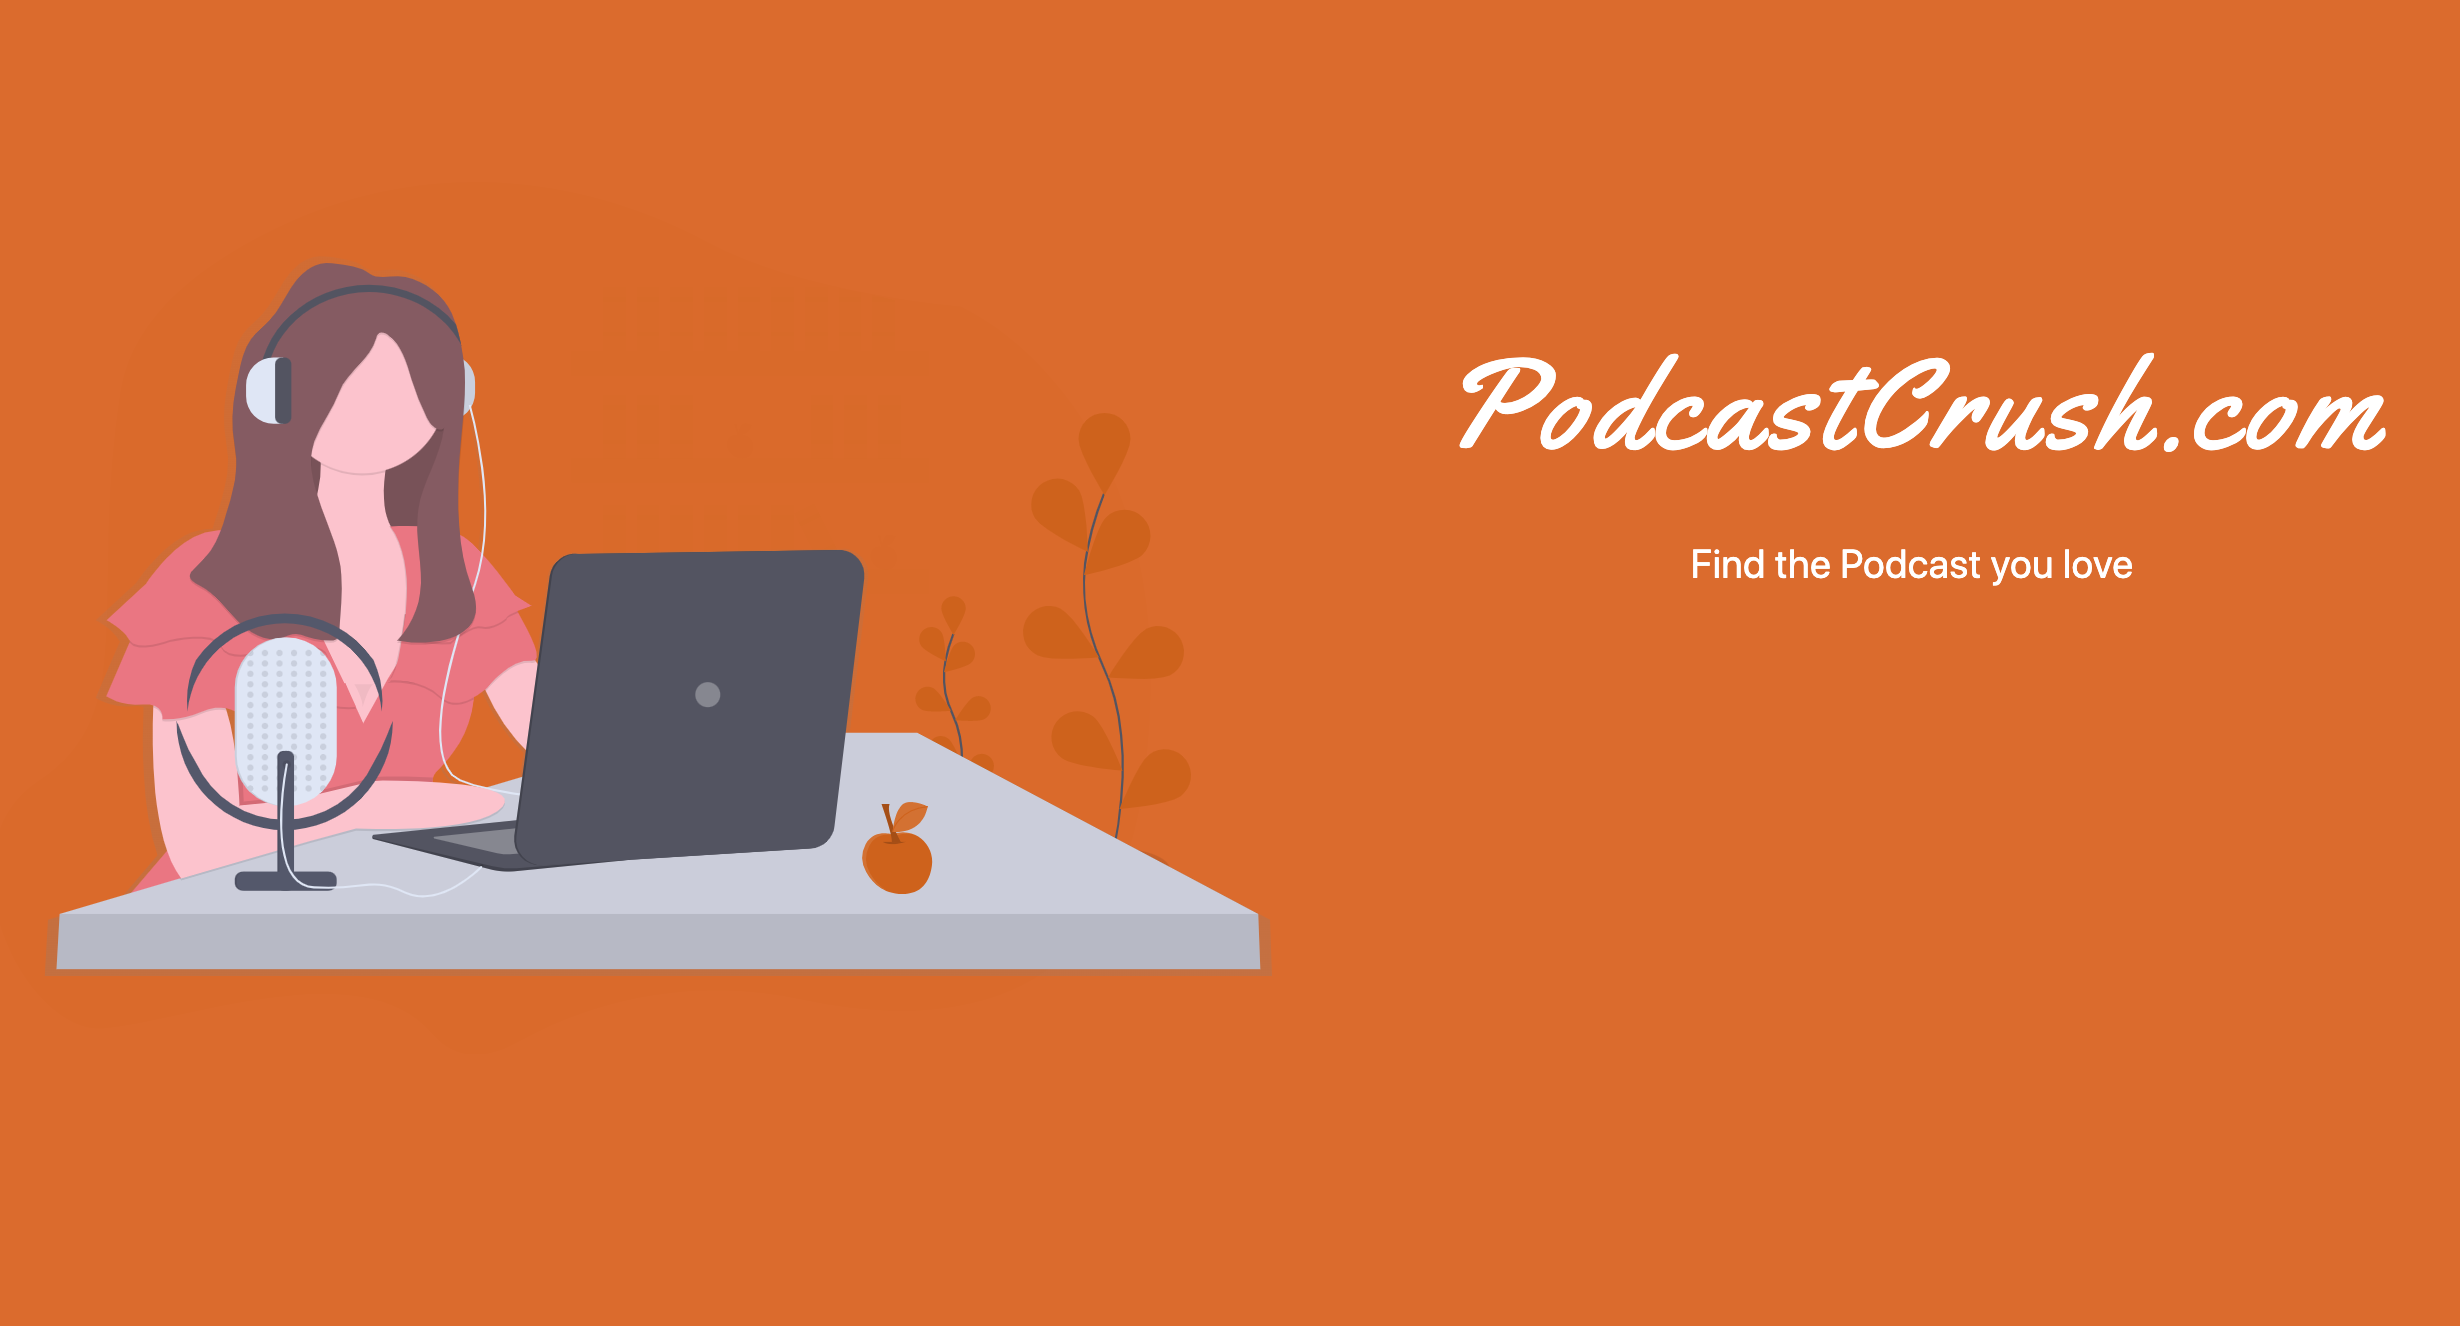
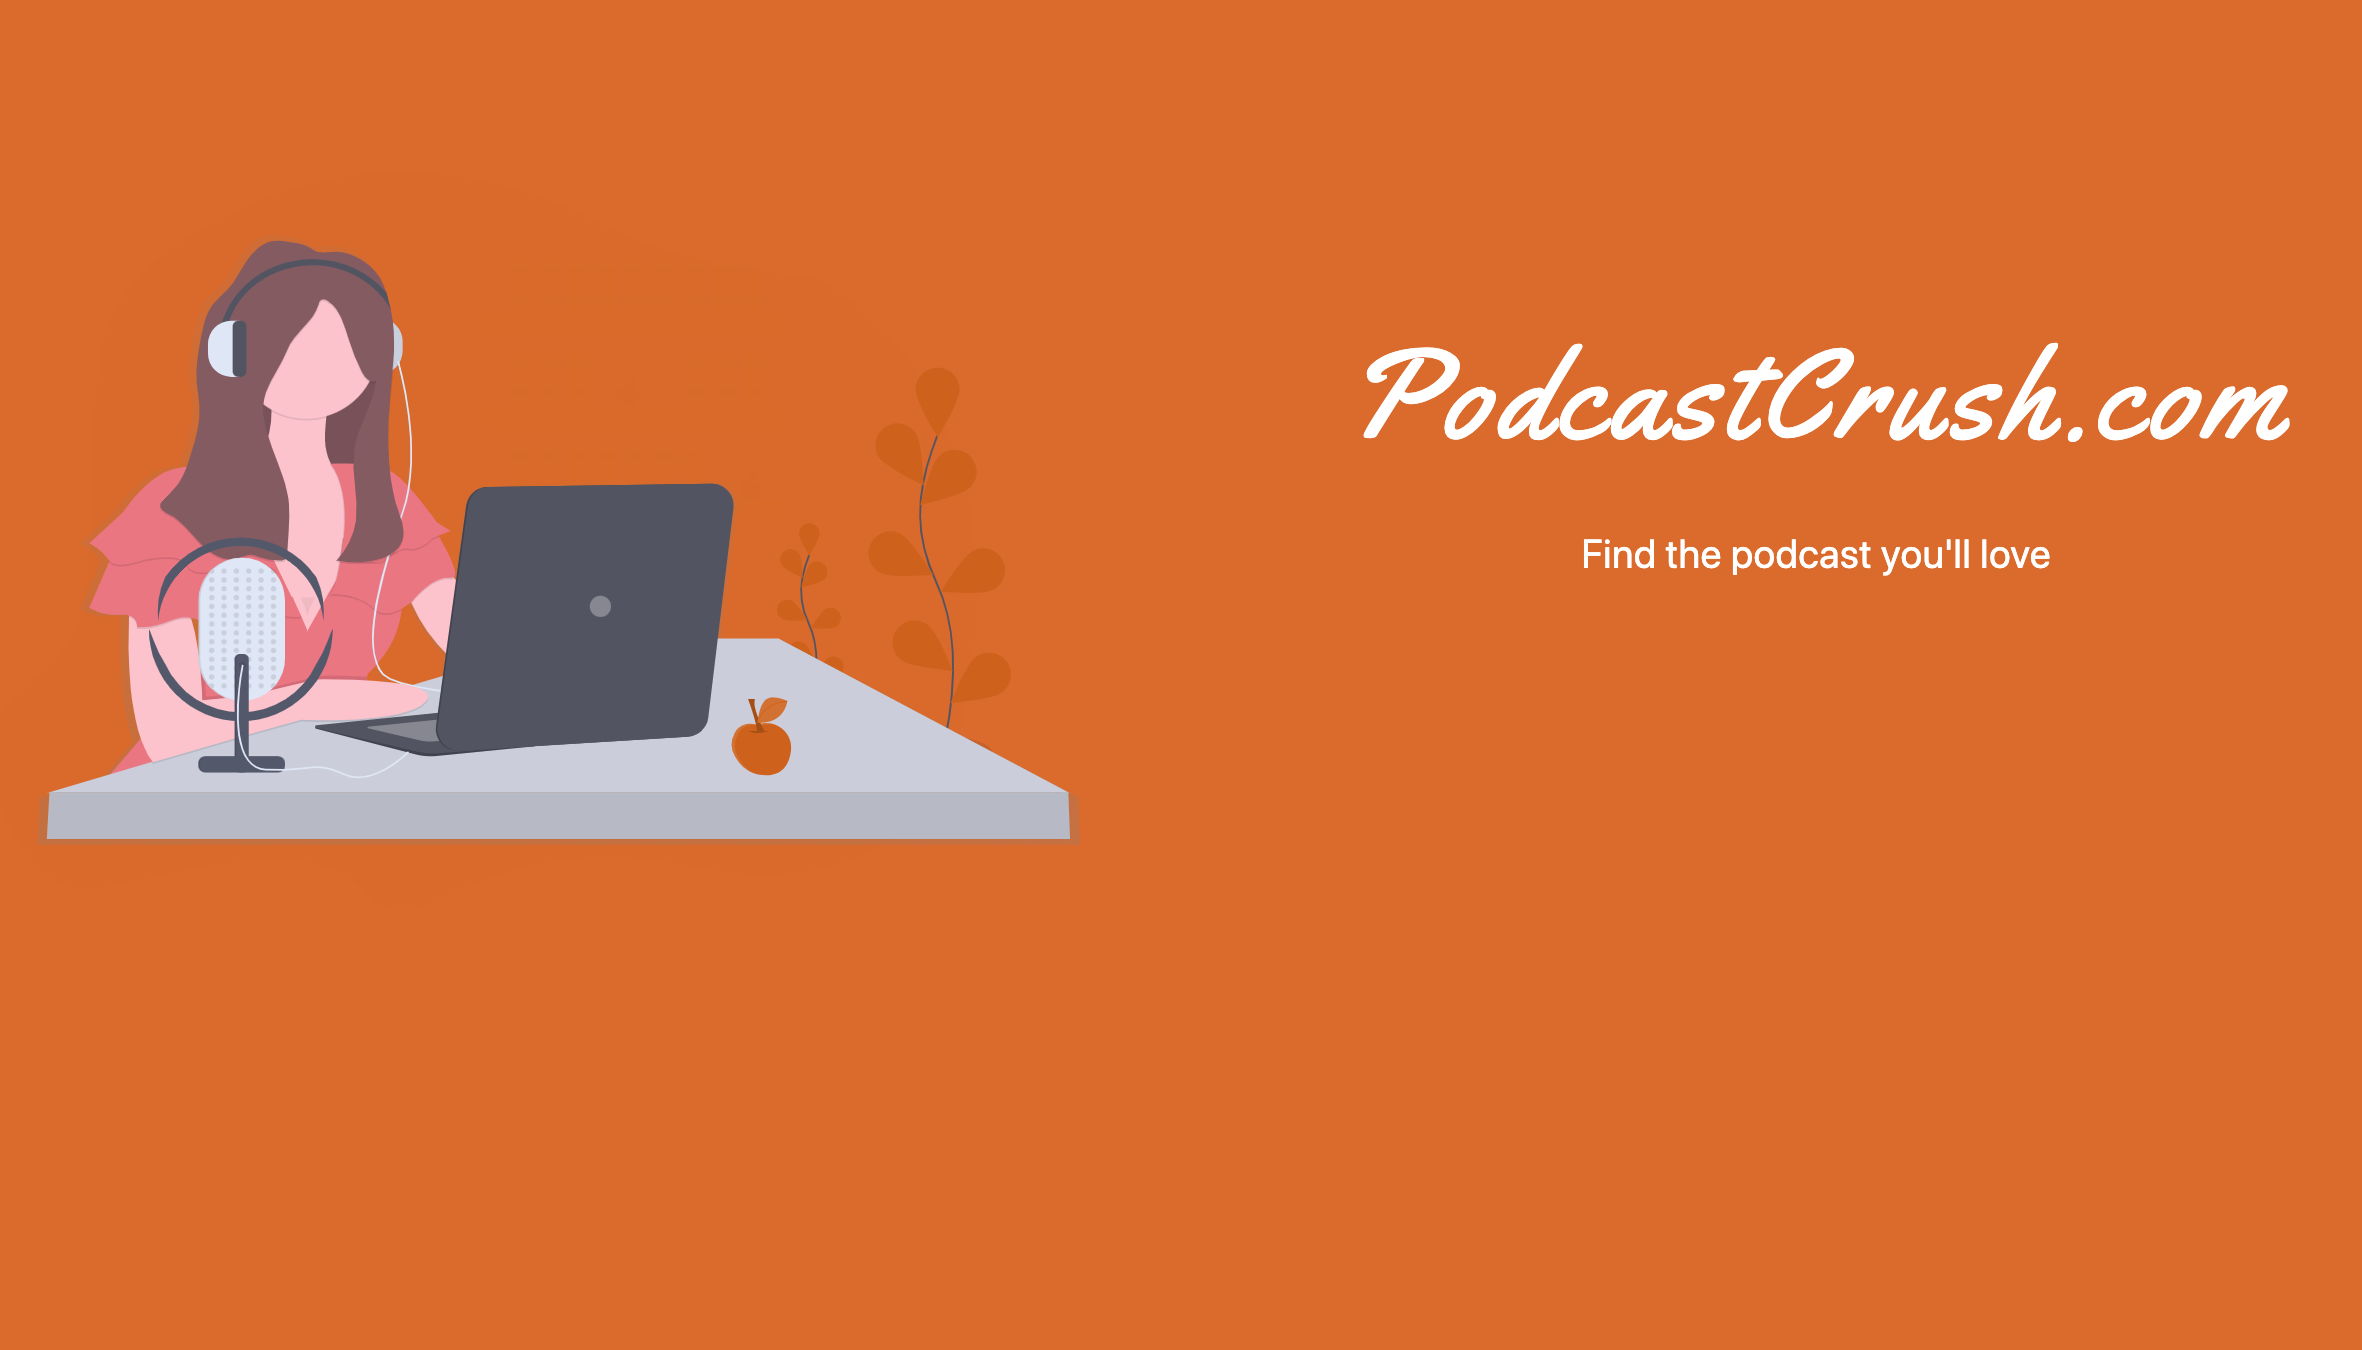
text(): update podcast project info

Changed region(s): [[0.0, 0.1855, 0.5254, 0.7421], [0.5563, 0.2474, 0.989, 0.3401], [0.6799, 0.402, 0.8654, 0.4329]]

diff --git a/src/Sections/ProjectSection.js b/src/Sections/ProjectSection.js
@@ -75,17 +75,17 @@ export default PortfolioSection;
 
 const data = [
   {
+    heading: "podcastcrush.com",
+    description: `Discover the podcast you'll love`,
+    imgUrl: "/images/portfolio_podcast.png",
+    url: "https://podcastcrush.com",
+  },
+  {
     heading: "gettennisalerts.com",
     description:
       "Never miss another international tennis match. Follow your favorite players and get alerts when tournament matches are announced.",
     imgUrl: "/images/portfolio_gettennisalerts.png",
     url: "https://gettennisalerts.com",
-  },
-  {
-    heading: "podcastcrush.com",
-    description: `Discover podcasts you'll love`,
-    imgUrl: "/images/portfolio_podcast.png",
-    url: "https://podcastcrush.com",
   },
   {
     heading: "React / Redux Boilerplate",
